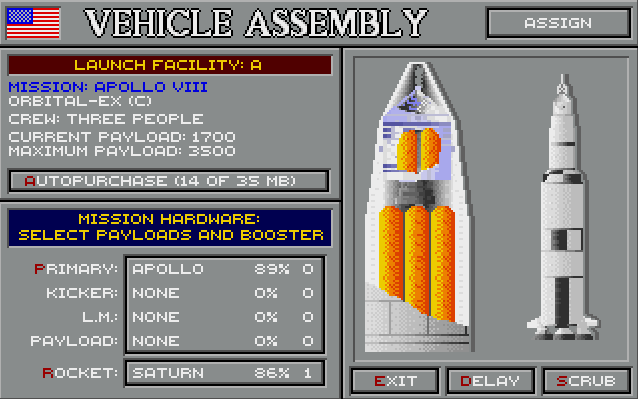
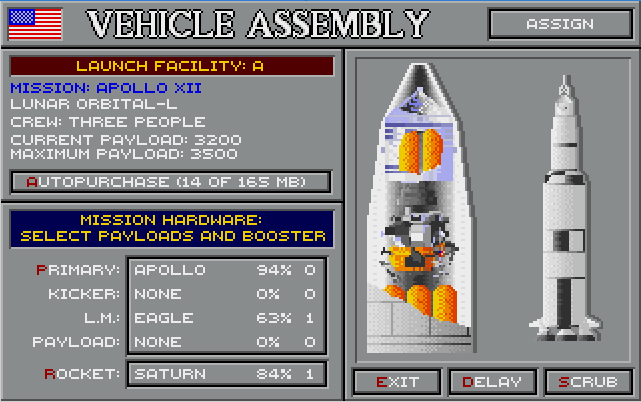
Updates for 2.0

diff --git a/doc/manual/manual.md b/doc/manual/manual.md
@@ -196,7 +196,7 @@ Five offices are located here:
 
 On the left you see one graph displaying your and your opponent's prestige over the past two years, and another showing selectable information on your expenditures in the four different classifications of space hardware.  On the right you see your budget over the past two years, next to an estimate of your opponent's, courtesy of the CIA/KGB.
 
-![Hardware description pop-up](image_3.5.png)
+![Hardware Purchase](image_3.4.png)
 
 #### Hardware Purchase
 
@@ -207,6 +207,10 @@ There is a built-in advantage to developing programs in progressive order, calle
 In BARIS, this was all or nothing.  If a component wasn't quite at 75%, it would give no tech transfer at all.  RIS (starting with v.1.1) gives partial tech transfer when your hardware is above starting Safety.
 
 Technology transfer is a good and useful thing, but you don't have to take advantage of it.  It will sometimes be in your interest to skip programs or take alternate paths to your objective.  You will get a feel for this over time.
+
+![Hardware description pop-up](image_3.5.png)
+
+If you click on the image on the left, you'll see a pop-up description of that piece of hardware.
 
 The "Visit  R&D Facility" button is a shortcut to your Research building.  You can't just start, say, a capsule program and use it immediately; you first have to invest time and money to make it spaceworthy.
 
@@ -402,7 +406,7 @@ Once a year, your country's leader reviews your performance.  If you're doing ve
 
 If you scheduled a mission last turn, you now need to assemble it for launch.  In the top left you'll see the mission name and type, and an Autopurchase button to make it easy to buy the equipment for it.  On the right you see the hardware as currently assembled—when you change the configuration, this display will update to match it.  To change rockets or add/remove boosters, click on the Rocket button near the bottom left.  It defaults to the smallest rocket that can lift the payload without boosters; if you want to use a smaller rocket with boosters (e.g., B/Titan), click the button a few times.  Whatever the mission, your rocketry needs a high enough Maximum Payload to launch the Current Payload (above the Autopurchase button).  To change the payload (generally, to switch kickers or lunar landers), click on the larger button above the Rocket button.  Note that Autopurchase does not prompt you for confirmation (unless the rocketry can't lift the payload) and cannot be undone.
 
-Once you're ready, click the Assign button or press Enter.  If you want to cancel out of this screen without assigning anything, press Exit.  If you want to cancel the flight entirely, press Scrub.  If your hardware isn't quite ready yet (like the rocket in the above example) and you want to fly it next turn instead, press the Delay button.
+Once you're ready, click the Assign button or press Enter.  If you want to cancel out of this screen without assigning anything, press Exit.  If you want to cancel the flight entirely, press Scrub.  If your hardware isn't quite ready yet (like the LM in the above example) and you want to fly it next turn instead, press the Delay button.
 
 It is often a good idea to make this your first stop when you begin your turn, so you don't accidentally spend all your money on research when you need to buy hardware for a launch.
 
